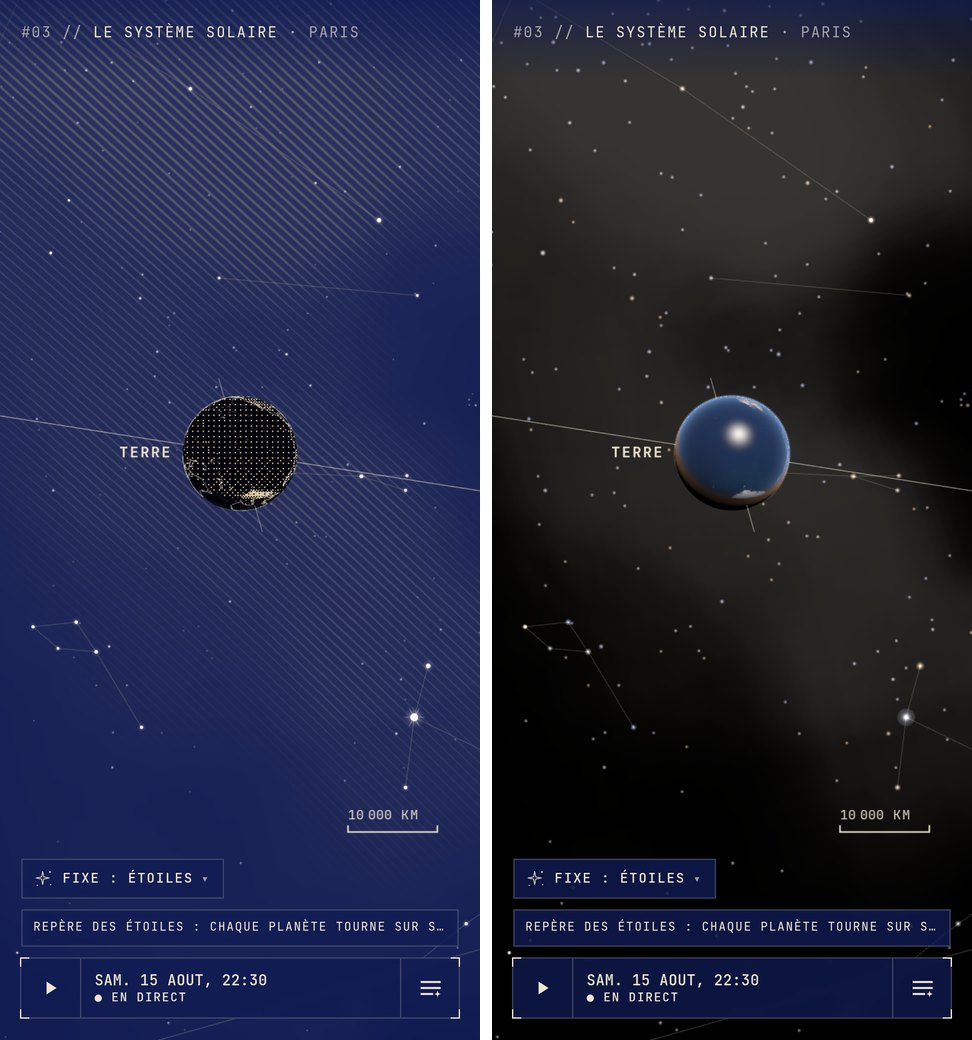
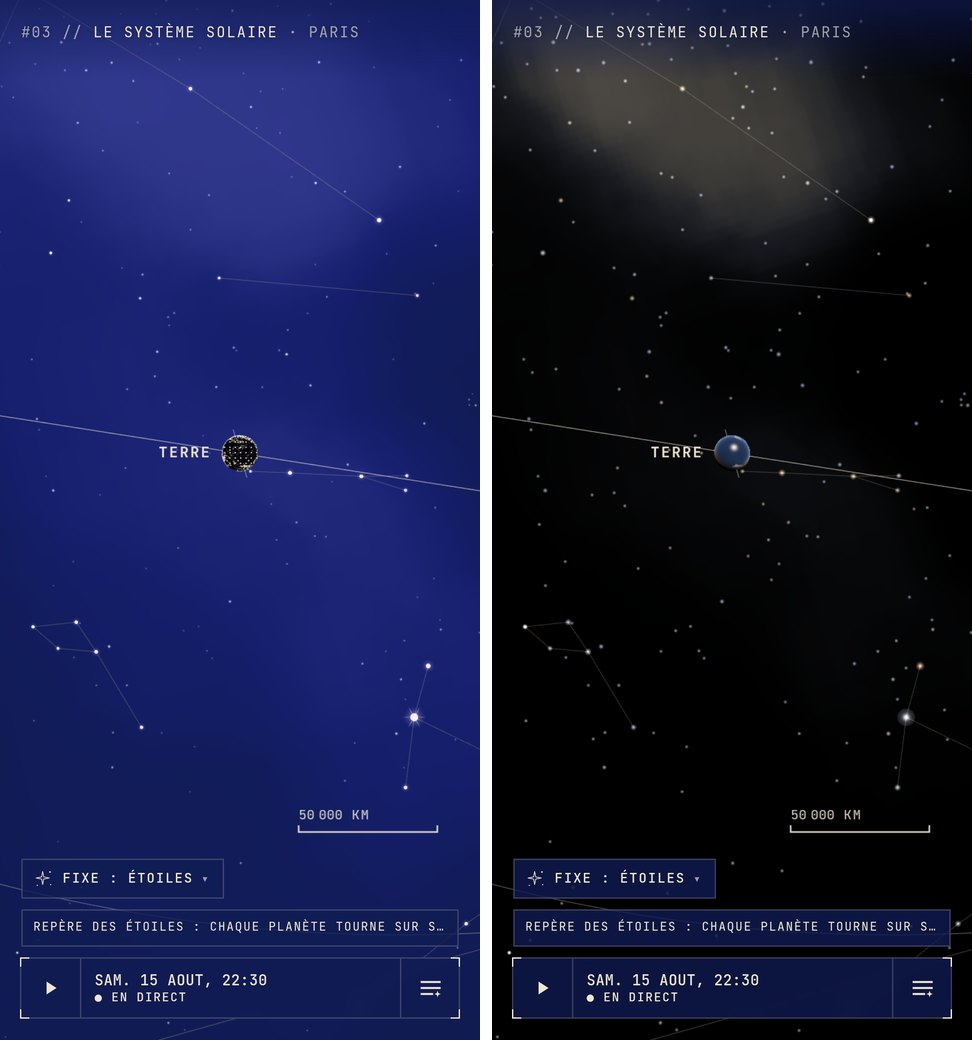
fix(renderer): violet glow and long-exposure band in the Earth view (#168)
Engraving style: the hatches (read as screen-wide stripes) give way to
the sky map's own violet glow, shared GLSL, additive. Realistic style:
black sky outside the band (high floor), steep tone curve keeping clouds
and dark lanes, cream core and cooler faint edges, no brown haze.

Claude-Session: https://claude.ai/code/session_01N1QFv7eBBRTZ3qycztnweP

diff --git a/packages/sky-renderer/src/milky-way.ts b/packages/sky-renderer/src/milky-way.ts
@@ -17,9 +17,9 @@
  *    never covers a star or a line. It fades out by day (daylight drowns it) and with the field
  *    narrower than FADE_FOV (its detail is ~1°);
  *  - space view: a sphere at infinity drawn before the stars, its vertices J2000 directions
- *    placed by the same uPrec as the stars (spaceMilkyWayVert). Realistic style: warm-neutral
- *    glow, browner where the counts thin out (dust lanes). Engraving: a parchment-ink wash and
- *    fine hatches along the galactic parallels, fixed to the sky (ART_DIRECTION §3, gravure).
+ *    placed by the same uPrec as the stars (spaceMilkyWayVert). Engraving: the sky map's glow
+ *    (same ramp and blend, coherent with the blue background). Realistic: a long-exposure look,
+ *    black outside the band, cream core and cooler faint edges, dust lanes as dark gaps.
  *
  * Filtering: bilinear with a smoothstep on the texel fraction (one fetch), so the 0.35° texels do
  * not show as diamonds when zoomed in.
@@ -58,16 +58,20 @@ export const MILKY_WAY_PALETTE = {
 
 /** Look of the band in the space view (see spaceMilkyWayFrag). */
 export const SPACE_MILKY_WAY_STYLE = {
-  LOW: 0.2,
-  /** Realistic style: additive opacity at the densest texel. */
-  REAL_STRENGTH: 0.22,
-  /** Realistic style: share of the band's faint outskirts left black. */
-  REAL_LOW: 0.15,
-  /** Engraving: opacity of the ink wash and of the hatches at the densest texel. */
-  WASH: 0.13,
-  HATCH: 0.22,
-  /** Spacing of the hatches, degrees of galactic latitude. */
-  HATCH_DEG: 0.3,
+  /**
+   * Realistic style: texture value under which the sky stays pure black (a high floor: only the
+   * band itself shows, as on a long-exposure photograph).
+   */
+  REAL_LOW: 0.55,
+  /** Realistic style: exponent of the tone curve (keeps the band's clouds and lanes apart). */
+  REAL_GAMMA: 2.4,
+  /** Realistic style: additive opacity at the densest texel (the stars stay the main feature). */
+  REAL_STRENGTH: 0.3,
+  /**
+   * Engraving: the sky map's glow, a little weaker: this view's 40° field often lies inside the
+   * band, where the full strength would tint the whole screen.
+   */
+  GLOW_STRENGTH: 0.26,
 } as const;
 
 /** Under the see-through ground's night background (−1) and everything else (sky map). */
@@ -130,6 +134,26 @@ export const MILKY_WAY_GLSL = /* glsl */ `
   }
 `;
 
+const S = MILKY_WAY_STYLE;
+
+/**
+ * The glow of the sky map, shared by the space view's engraving style (#168): colour ramp
+ * (uMwFaint → uMwBody → uMwCore) and opacity before uMwStrength, from the texture value.
+ */
+export const MILKY_WAY_GLOW_GLSL = /* glsl */ `
+  uniform vec3 uMwFaint;
+  uniform vec3 uMwBody;
+  uniform vec3 uMwCore;
+  uniform float uMwStrength;
+  vec4 milkyWayGlow(float density) {
+    float t = smoothstep(${f(S.LOW)}, 1.0, density);
+    float s = pow(t, ${f(S.GAMMA)});
+    vec3 col = mix(uMwFaint, uMwBody, smoothstep(0.0, 0.55, s));
+    col = mix(col, uMwCore, smoothstep(0.5, 1.0, s));
+    return vec4(col, s * uMwStrength);
+  }
+`;
+
 export const milkyWayVert = /* glsl */ `
   varying vec2 vNdc;
   void main() {
@@ -137,8 +161,6 @@ export const milkyWayVert = /* glsl */ `
     gl_Position = vec4(position.xy, 0.0, 1.0);
   }
 `;
-
-const S = MILKY_WAY_STYLE;
 
 /**
  * Sky map: inverse projection as groundFrag, then horizontal → J2000 with uEq2Hor's transpose
@@ -149,11 +171,8 @@ export const milkyWayFrag = /* glsl */ `
   precision highp float;
   ${projection}
   ${MILKY_WAY_GLSL}
+  ${MILKY_WAY_GLOW_GLSL}
   uniform mat3 uViewInv;
-  uniform float uMwStrength;
-  uniform vec3 uMwFaint;
-  uniform vec3 uMwBody;
-  uniform vec3 uMwCore;
   varying vec2 vNdc;
 
   void main() {
@@ -165,12 +184,9 @@ export const milkyWayFrag = /* glsl */ `
     float fade = horizonFade(h.z);
     if (fade <= 0.0) discard;
     vec3 e = h * uEq2Hor;
-    float t = smoothstep(${f(S.LOW)}, 1.0, milkyWayDensity(e));
-    if (t <= 0.0) discard;
-    float s = pow(t, ${f(S.GAMMA)});
-    vec3 col = mix(uMwFaint, uMwBody, smoothstep(0.0, 0.55, s));
-    col = mix(col, uMwCore, smoothstep(0.5, 1.0, s));
-    gl_FragColor = vec4(col, s * uMwStrength * fade);
+    vec4 glow = milkyWayGlow(milkyWayDensity(e));
+    if (glow.a <= 0.0) discard;
+    gl_FragColor = vec4(glow.rgb, glow.a * fade);
   }
 `;
 
@@ -185,45 +201,37 @@ export const spaceMilkyWayVert = /* glsl */ `
   }
 `;
 
-const G = J2000_TO_GALACTIC;
 const SV = SPACE_MILKY_WAY_STYLE;
 
 /**
- * Space view. uMwMode 0: engraving (ink wash + hatches along the galactic parallels, fixed to the
- * sky, faded out where they would be closer than a pixel), 1: realistic (warm glow, browner in
- * the thin parts), 2: realistic in night red (glow of the ink).
+ * Space view, added to the background (additive blending). uMwMode 0: engraving, the sky map's
+ * glow (same ramp, same strength); 1: realistic, a long-exposure look: black outside the band
+ * (high floor), steep tone curve so bright clouds and dark lanes stay apart, cooler faint edges
+ * and a cream core; 2: realistic in night red (the same curve in the ink).
  */
 export const spaceMilkyWayFrag = /* glsl */ `
   precision highp float;
   ${MILKY_WAY_GLSL}
+  ${MILKY_WAY_GLOW_GLSL}
   uniform vec3 uInk;
   uniform float uMwMode;
   varying vec3 vDir;
 
   void main() {
-    vec3 e = normalize(vDir);
-    float t = smoothstep(${f(SV.LOW)}, 1.0, milkyWayDensity(e));
-    if (t <= 0.0) discard;
-    if (uMwMode > 0.5) {
-      // Realistic: the outskirts drop to black; warm white clouds, faintly brown where thinner.
-      float r = smoothstep(${f(SV.REAL_LOW)}, 1.0, t);
-      vec3 dust = vec3(0.62, 0.54, 0.46);
-      vec3 light = vec3(0.96, 0.93, 0.87);
-      vec3 col = uMwMode > 1.5 ? uInk : mix(dust, light, smoothstep(0.2, 0.8, r));
-      gl_FragColor = vec4(col, pow(r, 1.5) * ${f(SV.REAL_STRENGTH)});
+    float d = milkyWayDensity(normalize(vDir));
+    if (uMwMode < 0.5) {
+      vec4 glow = milkyWayGlow(d);
+      if (glow.a <= 0.0) discard;
+      gl_FragColor = glow;
       return;
     }
-    float b = degrees(asin(clamp(dot(vec3(${G.slice(6).map(f).join(", ")}), e), -1.0, 1.0)));
-    float h = b / ${f(SV.HATCH_DEG)};
-    float px = fwidth(h);
-    float dist = 0.5 - abs(fract(h) - 0.5); // 0 on a hatch, 0.5 between two
-    // Engraved hatches: thicker where the band is denser (up to a third of the spacing).
-    float core = smoothstep(0.35, 1.0, t);
-    float w = max(0.5 * px, core * 0.16);
-    float hatch = (1.0 - smoothstep(w - 0.5 * px, w + 0.5 * px, dist)) * (1.0 - smoothstep(0.15, 0.4, px));
-    float a = t * ${f(SV.WASH)} + hatch * core * ${f(SV.HATCH)};
-    if (a < 0.003) discard;
-    gl_FragColor = vec4(uInk, a);
+    float r = smoothstep(${f(SV.REAL_LOW)}, 1.0, d);
+    if (r <= 0.0) discard;
+    float s = pow(r, ${f(SV.REAL_GAMMA)});
+    vec3 edge = vec3(0.7, 0.77, 0.94);
+    vec3 core = vec3(1.0, 0.96, 0.9);
+    vec3 col = uMwMode > 1.5 ? uInk : mix(edge, core, smoothstep(0.3, 0.9, s));
+    gl_FragColor = vec4(col, s * ${f(SV.REAL_STRENGTH)});
   }
 `;
 
@@ -376,6 +384,12 @@ export class SpaceMilkyWay {
   private enabled = false;
   private readonly texture: MilkyWayTexture;
   private readonly mode = { value: 0 };
+  private readonly colors = {
+    uMwFaint: { value: new THREE.Color() },
+    uMwBody: { value: new THREE.Color() },
+    uMwCore: { value: new THREE.Color() },
+    uMwStrength: { value: SPACE_MILKY_WAY_STYLE.GLOW_STRENGTH as number },
+  };
 
   constructor(options: MilkyWayLayerOptions) {
     this.texture = new MilkyWayTexture(options.url, () => {
@@ -383,20 +397,34 @@ export class SpaceMilkyWay {
       options.requestFrame();
     });
     const material = new THREE.ShaderMaterial({
-      uniforms: { ...options.uniforms, ...this.texture.uniforms, uMwMode: this.mode },
+      uniforms: {
+        ...options.uniforms,
+        ...this.texture.uniforms,
+        ...this.colors,
+        uMwMode: this.mode,
+      },
       vertexShader: spaceMilkyWayVert,
       fragmentShader: spaceMilkyWayFrag,
       transparent: true,
       depthTest: true,
       depthWrite: false,
       side: THREE.DoubleSide,
-      blending: THREE.NormalBlending,
+      blending: THREE.AdditiveBlending,
     });
     // 3.75° per segment; directions are exact per pixel (normalised in the fragment shader).
     this.mesh = new THREE.Mesh(new THREE.SphereGeometry(1, 96, 48), material);
     this.mesh.frustumCulled = false;
     this.mesh.renderOrder = SPACE_MILKY_WAY_ORDER;
     this.mesh.visible = false;
+    this.setGlow("violet", "#f0e6d2");
+  }
+
+  /** Palette of the engraving style's glow, as on the sky map (violet, or the night ink). */
+  setGlow(glow: "violet" | "ink", ink: string): void {
+    const [a, b, c] = milkyWayColors(glow, ink);
+    this.colors.uMwFaint.value.copy(a);
+    this.colors.uMwBody.value.copy(b);
+    this.colors.uMwCore.value.copy(c);
   }
 
   setEnabled(on: boolean): void {
@@ -405,12 +433,10 @@ export class SpaceMilkyWay {
     if (on) this.texture.request();
   }
 
-  /** Engraving (ink wash and hatches), realistic glow, or realistic in night red. */
+  /** Engraving (the sky map's glow), realistic long exposure, or realistic in night red. */
   setStyle(style: "engraving" | "realistic", monochrome: boolean): void {
     const realistic = style === "realistic";
     this.mode.value = realistic ? (monochrome ? 2 : 1) : 0;
-    this.mesh.material.blending = realistic ? THREE.AdditiveBlending : THREE.NormalBlending;
-    this.mesh.material.needsUpdate = true;
   }
 
   dispose(): void {

diff --git a/packages/sky-renderer/src/milky-way.test.ts b/packages/sky-renderer/src/milky-way.test.ts
@@ -95,7 +95,7 @@ describe("milkyWayUv", () => {
       "vec2(fract(atan(e.y, e.x) / MW_TAU), 0.5 - asin(clamp(e.z, -1.0, 1.0)) / MW_PI)",
     );
     expect(milkyWayFrag).toContain("milkyWayDensity(e)");
-    expect(spaceMilkyWayFrag).toContain("milkyWayDensity(e)");
+    expect(spaceMilkyWayFrag).toContain("milkyWayDensity(normalize(vDir))");
   });
 });
 
@@ -127,7 +127,7 @@ describe("space view orientation (#168)", () => {
     // The sphere's vertex is a J2000 direction placed by uPrec, exactly like a star.
     expect(spaceMilkyWayVert).toContain("uPrec * position");
     expect(skyStarVert).toContain("uPrec * starDirection(aDir)");
-    expect(spaceMilkyWayFrag).toContain("vec3 e = normalize(vDir);");
+    expect(spaceMilkyWayFrag).toContain("milkyWayGlow(d)");
     // A pixel showing the galactic centre in 2026 (world = precession · J2000) reads the
     // texture at the galactic centre's texel; precession has moved it by ≈ 0.36°.
     const prec = precessionMatrix(new Date("2026-08-15T20:30:00Z"));

diff --git a/packages/sky-renderer/src/space-view.ts b/packages/sky-renderer/src/space-view.ts
@@ -1014,6 +1014,7 @@ export class SpaceView {
     this.uniforms.uBase.value.set(theme.ground);
     this.renderer.setClearColor(this.style === "realistic" ? "#000000" : theme.sky);
     this.real?.setMonochrome(this.monochrome, theme.ink);
+    this.milkyWay.setGlow(theme.glow ?? "violet", theme.ink);
     // Surface lines (coastlines, graticule, marker) use plain materials: recolour them too.
     this.scene.traverse((o) => {
       const m = (o as THREE.LineSegments).material as THREE.LineBasicMaterial | undefined;

diff --git a/PROGRESS.md b/PROGRESS.md
@@ -27,7 +27,7 @@
 8. Licences : Hipparcos et Gaia en CC BY-NC 3.0 IGO → autorisation ESA requise avant toute monétisation
 
 ## ✅ Fait récemment
-- 2026-10-19 — #168 (PR à suivre) Voie lactée revue après essai sur téléphone : sur la carte, plus de grain de points fixe à l'écran mais une lueur diffuse ajoutée au ciel (indigo → violet-bleu → lavande, rouge sombre en vision nocturne), lissée à 1,5°, éteinte de jour et atténuée en fort zoom ; jamais par-dessus les étoiles. Vue Terre / système solaire : bande à l'infini avec la précession des étoiles, dans les deux styles (gravure : lavis + hachures attachées au ciel ; réaliste : lueur blanc chaud et poussières), calque « Voie lactée » aussi dans cette vue. Captures `docs/design/milky-way/`. À mesurer sur S23.
+- 2026-10-19 — #168 (PR à suivre) Voie lactée revue après essai sur téléphone : sur la carte, plus de grain de points fixe à l'écran mais une lueur diffuse ajoutée au ciel (indigo → violet-bleu → lavande, rouge sombre en vision nocturne), lissée à 1,5°, éteinte de jour et atténuée en fort zoom ; jamais par-dessus les étoiles. Vue Terre / système solaire : bande à l'infini avec la précession des étoiles, dans les deux styles (gravure : même lueur violette que la carte ; réaliste : façon photo à longue pose, ciel noir hors de la bande, cœur crème, bandes sombres), calque « Voie lactée » aussi dans cette vue. Captures `docs/design/milky-way/`. À mesurer sur S23.
 - 2026-10-19 — #163 Jeux (branche `feat/163-games`) : tuile « Jeux » dans Menu > Vue, écran Jeux (niveau, cartes de jeu, « Ton ciel » : une case par constellation tramée selon la maîtrise) ; moteur `apps/web/src/lib/games/` (SM-2 allégé avec révision anticipée amortie, maîtrise par élément `con:`/`star:`, tirage pondéré à revoir > dues > nouvelles, max 4-5 nouvelles par série, ×2 pour le ciel de ce soir, stockage local versionné) ; jeu « Quelle constellation ? » : 10 questions sur la vraie carte (SkyMap, figure au zénith), 4 noms voisins, figure illustrée en Découverte, étoiles seules en Expert. Découverte = 29 constellations (zodiaque, étoiles V ≤ 1,5, Grande/Petite Ourse, Cassiopée, Pégase). Captures `docs/design/games/`. Suites : #164, #165.
 - 2026-10-19 — #162 (PR à suivre) Calque « Ciel réaliste » retiré : étoiles, noms et ciel profond restent dessinés de jour (un ancien réglage mémorisé est ignoré). Nouveau calque « Voie lactée » (actif par défaut) : densité des étoiles Tycho-2 de magnitude 9 à 11 tirée d'AT-HYG v3.2 (CC BY-SA 4.0, commit épinglé), lissée sur la sphère (`build_milkyway.py`, texture 1024×512 WebP 19 Ko), tracée en lavis + grain d'encre sous tout le reste, dans la projection de la carte ; Grand Rift et nuages d'Ophiuchus visibles ; copie hors ligne. Captures `docs/design/milky-way/`. À mesurer sur S23 (ms/image).
 - 2026-10-19 — #160 iPhone : l'appli s'installe depuis Safari (Partager → « Sur l'écran d'accueil »), marche à suivre affichée dans Réglages sur iOS ; plein écran et titre via les balises Apple ; la boussole demande l'autorisation d'orientation d'iOS quand on la touche. Capture `docs/design/ios-install/`.

diff --git a/docs/ART_DIRECTION.md b/docs/ART_DIRECTION.md
@@ -45,7 +45,7 @@ Principe : **deux tons**, comme une gravure imprimée à l'encre parchemin sur p
 ### Le ciel
 - Fond **bleu nuit #101B52** uni (pas de dégradé cartoon). Étoiles nettes, couleur physique très **désaturée** (B-V) pour rester presque monochrome ; en mode « Pur », 100 % parchemin.
 - **Lignes de constellation = fils de lumière fins**, nets, comme gravés. (Les rayons façon hero Hermes ont été testés puis écartés.)
-- Voie lactée : **lueur diffuse et transparente** violet / bleu profond sur la carte, ajoutée au ciel sans jamais masquer une étoile (choix du porteur, #168, après un essai en grain de points en #162) ; dans la vue Terre, lavis et fines hachures d'encre attachés au ciel (gravure) ou lueur naturelle (réaliste).
+- Voie lactée : **lueur diffuse et transparente** violet / bleu profond sur la carte, ajoutée au ciel sans jamais masquer une étoile (choix du porteur, #168, après un essai en grain de points en #162) ; même lueur dans la vue Terre en style gravure ; en style réaliste, bande de photo à longue pose sur ciel noir.
 
 ### Les figures mythologiques (le cœur de la DA)
 - Style : **gravure ancienne** (référence : atlas de Bayer *Uranometria* 1603, Hevelius 1690, *Urania's Mirror* 1824 — tous **domaine public**) retravaillée par artiste + IA, puis rendue en temps réel par shader :

diff --git a/docs/DATA_SOURCES.md b/docs/DATA_SOURCES.md
@@ -189,10 +189,11 @@ depuis la direction J2000, filtrage bilinéaire lissé (smoothstep sur la fracti
   (< 8°, de 8 à 40°) où la texture n'a plus de détail ;
 - **vue Terre / système solaire** : sphère à l'infini dont les sommets sont des directions J2000
   placées par la même précession que les étoiles (testé : centre galactique dans le Sagittaire,
-  lu au bon texel en 2026), dessinée avant les étoiles. Style réaliste : lueur blanc chaud, plus
-  brune là où la bande s'amincit (bandes de poussière) ; nuit rouge : lueur de l'encre. Gravure :
-  lavis d'encre parchemin et fines hachures le long des parallèles galactiques (0,3°), attachées
-  au ciel, plus épaisses dans les nuages denses.
+  lu au bon texel en 2026), dessinée avant les étoiles et ajoutée au fond. Gravure : la même
+  lueur violette que la carte (même dégradé, un peu moins intense : le champ de 40° de cette vue
+  est souvent tout entier dans la bande). Réaliste, façon photo à longue pose : ciel noir hors de
+  la bande (seuil haut), courbe de tons raide qui garde nuages brillants et bandes sombres, cœur
+  crème, bords faibles plus froids ; nuit rouge : la même courbe dans l'encre.
 
 Texture chargée à la demande dans chaque vue ; sans le fichier, le calque ne dessine rien.
 
